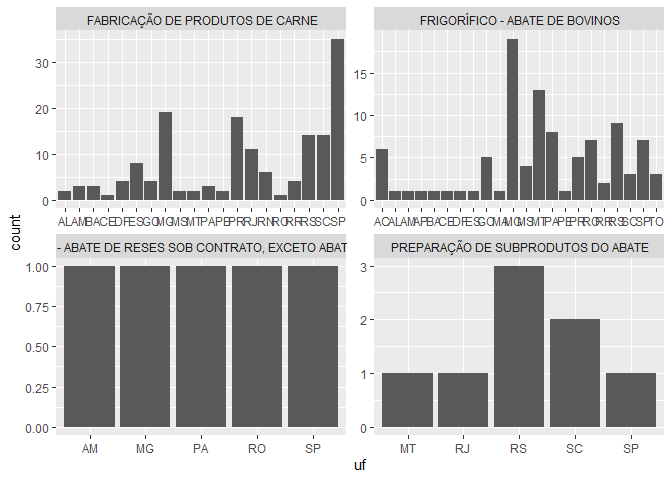
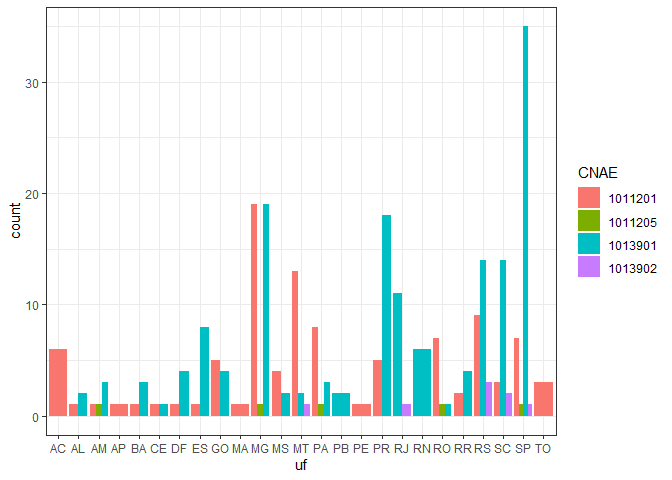
update

diff --git a/README.md b/README.md
@@ -60,9 +60,10 @@ df |>
     id,cnpj,uf,municipio_cod,municipio_name,cnae_cod,cnae_name,nome
   ) |> 
   dplyr::group_by(uf,cnae_name) |> 
-  ggplot2::ggplot(ggplot2::aes(x= uf))+
-  ggplot2::geom_bar()+
-  ggplot2::facet_wrap(~cnae_name, scales = 'free')
+  ggplot2::ggplot(ggplot2::aes(x= uf, group=cnae_cod,fill=as.character(cnae_cod)))+
+  ggplot2::geom_bar(position = 'dodge')+
+  ggplot2::labs(fill='CNAE')+
+  ggplot2::theme_bw()
 ```
 
 ![](README_files/figure-gfm/unnamed-chunk-2-1.png)<!-- -->
